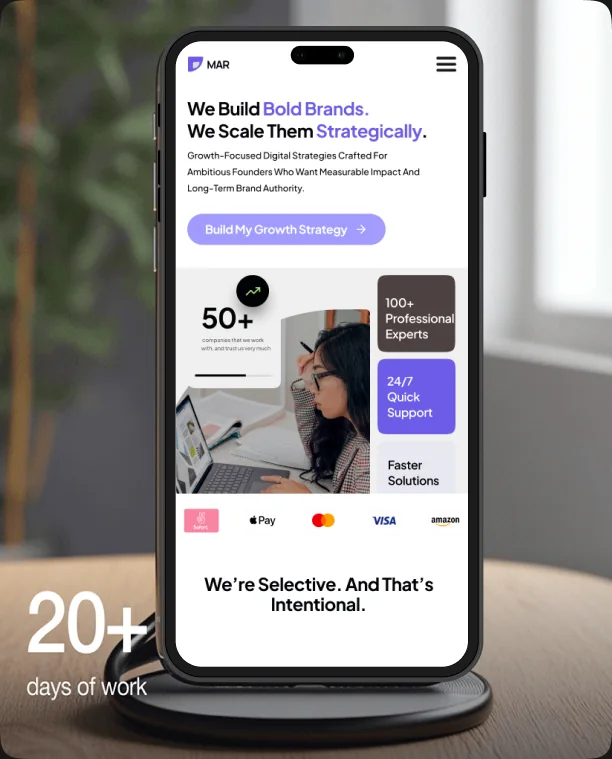
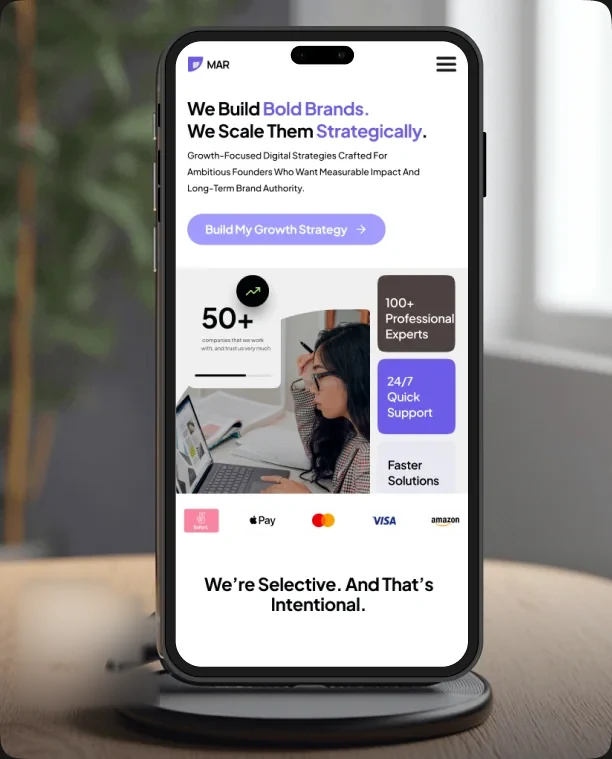
Add Microsoft Clarity analytics
Project 'Jagdish Bisht Portfolio' (ybke4p9ocn). Tag added to the <head>
of all five pages so heatmaps and session recordings cover the whole site,
not just the home page.

Changed region(s): [[0.031, 0.7576, 0.2794, 0.9394]]

diff --git a/devora.html b/devora.html
@@ -4,7 +4,18 @@
 <meta charset="UTF-8">
 <meta name="viewport" content="width=device-width, initial-scale=1.0">
 <title>Devora — Jagdish Bisht</title>
-<link rel="stylesheet" href="css/style.css?v=20260831i">
+<link rel="preconnect" href="https://fonts.googleapis.com">
+<link rel="preconnect" href="https://fonts.gstatic.com" crossorigin>
+<link rel="stylesheet" href="https://fonts.googleapis.com/css2?family=Aclonica&display=swap">
+<link rel="stylesheet" href="css/style.css?v=20260831k">
+<!-- Microsoft Clarity -->
+<script type="text/javascript">
+  (function(c,l,a,r,i,t,y){
+    c[a]=c[a]||function(){(c[a].q=c[a].q||[]).push(arguments)};
+    t=l.createElement(r);t.async=1;t.src="https://www.clarity.ms/tag/"+i;
+    y=l.getElementsByTagName(r)[0];y.parentNode.insertBefore(t,y);
+  })(window, document, "clarity", "script", "ybke4p9ocn");
+</script>
 </head>
 <body class="case-study">
 
@@ -96,7 +107,7 @@
         </div>
 
         <div class="case-block">
-          <h2>Why We Built This</h2>
+          <h2>Why this needed building</h2>
         </div>
 
         <div class="icon-card-grid">
@@ -108,7 +119,7 @@
           <div class="icon-card">
             <img src="assets/icons/devora/call-chat.svg" alt="" loading="lazy" decoding="async">
             <h3>The Manual Cycle</h3>
-            <p>Every business we spoke to described the same loop: ask the client's budget, get on a call, quote something "flexible" to avoid being wrong.</p>
+            <p>Every business I spoke to described the same loop: ask the client's budget, get on a call, quote something "flexible" to avoid being wrong.</p>
           </div>
           <div class="icon-card">
             <img src="assets/icons/devora/error-outline.svg" alt="" loading="lazy" decoding="async">
@@ -117,7 +128,7 @@
           </div>
           <div class="icon-card">
             <img src="assets/icons/devora/idea.svg" alt="" loading="lazy" decoding="async">
-            <h3>Our Opportunity</h3>
+            <h3>The opportunity</h3>
             <p>Conversational AI could ask the right questions fast - but only if paired with a pricing engine businesses could actually trust.</p>
           </div>
         </div>
@@ -142,7 +153,7 @@
         <div class="stat-card-grid">
           <div class="stat-card stat-card--pink">
             <span class="stat-card-num">68%</span>
-            <p>of visitors on our own pricing page left without any interaction, per session-recording review.</p>
+            <p>of visitors on the pricing page I reviewed left without any interaction, per session-recording review.</p>
           </div>
           <div class="stat-card stat-card--pink">
             <span class="stat-card-num">3/3</span>
@@ -202,11 +213,11 @@
 
         <div class="finding-grid">
           <div class="finding-card">
-            <div class="finding-head"><img src="assets/icons/devora/ear-sound.svg" alt="" loading="lazy" decoding="async"><h3>What we heard</h3></div>
+            <div class="finding-head"><img src="assets/icons/devora/ear-sound.svg" alt="" loading="lazy" decoding="async"><h3>What I heard</h3></div>
             <p>"I'd probably just put a fake number if I only wanted a ballpark," 3 of 8 participants said unprompted when shown this screen.</p>
           </div>
           <div class="finding-card">
-            <div class="finding-head"><img src="assets/icons/devora/test-tube.svg" alt="" loading="lazy" decoding="async"><h3>What we measured</h3></div>
+            <div class="finding-head"><img src="assets/icons/devora/test-tube.svg" alt="" loading="lazy" decoding="async"><h3>What I measured</h3></div>
             <p>5 of 8 said they'd hesitate or enter false details if only curious - the exact failure mode the gate was meant to prevent.</p>
           </div>
         </div>
@@ -223,11 +234,11 @@
 
         <div class="finding-grid finding-grid--dark">
           <div class="finding-card finding-card--dark">
-            <div class="finding-head"><img src="assets/icons/devora/ear-sound.svg" alt="" loading="lazy" decoding="async"><h3>What we heard</h3></div>
+            <div class="finding-head"><img src="assets/icons/devora/ear-sound.svg" alt="" loading="lazy" decoding="async"><h3>What I heard</h3></div>
             <p>"Oh, this already tells me if I'm in the right ballpark - I'd only bother going further if I was serious," one participant said.</p>
           </div>
           <div class="finding-card finding-card--dark">
-            <div class="finding-head"><img src="assets/icons/devora/test-tube.svg" alt="" loading="lazy" decoding="async"><h3>What we measured</h3></div>
+            <div class="finding-head"><img src="assets/icons/devora/test-tube.svg" alt="" loading="lazy" decoding="async"><h3>What I measured</h3></div>
             <p>7 of 8 said they'd give real contact details at the second gate, since they'd already gotten value for free and had a reason to continue.</p>
           </div>
         </div>
@@ -384,6 +395,8 @@
 
 <section class="cta cta--case">
   <div class="container">
+    <p class="mar-thanks"><span>Thanks</span> for Exploring</p>
+
     <footer class="site-footer">
       <h2 class="footer-ghost" aria-label="Let's Connect">
         <span>LET'S</span>

diff --git a/mar.html b/mar.html
@@ -7,7 +7,15 @@
 <link rel="preconnect" href="https://fonts.googleapis.com">
 <link rel="preconnect" href="https://fonts.gstatic.com" crossorigin>
 <link rel="stylesheet" href="https://fonts.googleapis.com/css2?family=Aclonica&display=swap">
-<link rel="stylesheet" href="css/style.css?v=20260831i">
+<link rel="stylesheet" href="css/style.css?v=20260831k">
+<!-- Microsoft Clarity -->
+<script type="text/javascript">
+  (function(c,l,a,r,i,t,y){
+    c[a]=c[a]||function(){(c[a].q=c[a].q||[]).push(arguments)};
+    t=l.createElement(r);t.async=1;t.src="https://www.clarity.ms/tag/"+i;
+    y=l.getElementsByTagName(r)[0];y.parentNode.insertBefore(t,y);
+  })(window, document, "clarity", "script", "ybke4p9ocn");
+</script>
 </head>
 <body class="case-study case-study--mar">
 
@@ -233,6 +241,45 @@
     <div class="mar-media mar-media--showcase">
       <img src="assets/images/mar/showcase.webp" alt="MAR website across mobile screens" width="1103" height="1800" loading="lazy" decoding="async">
     </div>
+  </section>
+
+  <!-- ============ 9 · IMPACT ============ -->
+  <section class="mar-sec container">
+    <p class="mar-eyebrow">Impact</p>
+
+    <h2 class="mar-h1">What the rebuild is built to change</h2>
+    <p class="mar-statement mar-statement--sm">The site is newly shipped, so rather than quote numbers it hasn't earned yet, here is what each decision was made to move - and where I'd look first to check whether it worked.</p>
+
+    <ul class="mar-impact">
+      <li>
+        <h3>A visitor who knows what MAR does</h3>
+        <p>The old hero led with adjectives. The new one leads with a claim and two routes into the site, so the first screen answers "what is this" before it asks for anything.</p>
+      </li>
+      <li>
+        <h3>Fewer decisions per screen</h3>
+        <p>Scattered CTAs were consolidated into one primary action per section. The measure would be clicks per session on the way to Contact.</p>
+      </li>
+      <li>
+        <h3>Services someone can actually repeat back</h3>
+        <p>The offering was regrouped into a structure that fits on one screen. The measure would be scroll depth through the services block.</p>
+      </li>
+      <li>
+        <h3>A brand that reads as premium</h3>
+        <p>One typeface, one accent, and a consistent card system replaced the mixed styling that undercut the agency's positioning.</p>
+      </li>
+    </ul>
+  </section>
+
+  <!-- ============ 10 · REFLECTION ============ -->
+  <section class="mar-sec container">
+    <p class="mar-eyebrow">Reflection</p>
+
+    <h2 class="mar-h1">What stuck with me</h2>
+    <p class="mar-statement mar-statement--sm">Thirteen working days is not long enough to explore, so the constraint forced a different way of working: decide the structure first, and let the visual design be the consequence rather than the search. Blocking out the hero, the selection story and the services grid on day two meant everything afterwards was a question with a small answer instead of a blank canvas.</p>
+
+    <blockquote class="case-quote case-quote--mar">
+      The tight timeline didn't make the work worse - it made me commit to a structure early and defend it, instead of redesigning the same page five ways.
+    </blockquote>
   </section>
 
 </main>

diff --git a/css/style.css b/css/style.css
@@ -2476,3 +2476,64 @@ button:focus-visible {
   .case-study--mindbloom .case-meta--4 { grid-template-columns: 1fr; }
   .footer-ghost span { font-size: 2.1rem; }
 }
+
+/* MAR — Impact list + Reflection (added so the page carries the same
+   Problem -> Impact -> Reflection arc as the other case studies) */
+.mar-statement--sm {
+  font-size: clamp(1.05rem, 0.95rem + 0.5vw, 1.25rem);
+  font-weight: 400;
+  line-height: 1.55;
+  color: var(--text-primary);
+  max-width: 68ch;
+}
+.mar-impact {
+  list-style: none;
+  margin-top: 32px;
+  display: grid;
+  grid-template-columns: repeat(auto-fit, minmax(240px, 1fr));
+  gap: 20px;
+}
+.mar-impact li {
+  background: var(--devora-card-bg);
+  border: 1px solid var(--card-border);
+  border-radius: 16px;
+  padding: 24px;
+}
+.mar-impact h3 {
+  font-size: 1.125rem;
+  font-weight: 500;
+  color: var(--mar-accent-light);
+  margin-bottom: 10px;
+}
+.mar-impact p { font-size: 1rem; line-height: 1.55; color: var(--text-secondary); }
+.case-quote--mar {
+  margin-top: 28px;
+  border-left-color: var(--mar-accent);
+  background: rgba(108, 92, 231, 0.12);
+  font-weight: 500;
+}
+
+/* Hero availability — a recruiter should learn you are looking without scrolling */
+.hero-available {
+  margin-top: 18px;
+  display: inline-flex;
+  align-items: center;
+  gap: 9px;
+  padding: 9px 18px;
+  border-radius: 999px;
+  background: rgba(75, 255, 3, 0.10);
+  border: 1px solid rgba(75, 255, 3, 0.28);
+  font-size: clamp(0.85rem, 0.78rem + 0.3vw, 1rem);
+  color: var(--text-primary);
+  white-space: nowrap;
+}
+.hero-available-dot {
+  width: 8px;
+  height: 8px;
+  border-radius: 50%;
+  background: var(--accent-green);
+  flex-shrink: 0;
+}
+@media (max-width: 560px) {
+  .hero-available { white-space: normal; text-align: center; }
+}

diff --git a/index.html b/index.html
@@ -4,7 +4,15 @@
 <meta charset="UTF-8">
 <meta name="viewport" content="width=device-width, initial-scale=1.0">
 <title>Jagdish Bisht — Product Designer</title>
-<link rel="stylesheet" href="css/style.css?v=20260831i">
+<link rel="stylesheet" href="css/style.css?v=20260831k">
+<!-- Microsoft Clarity -->
+<script type="text/javascript">
+  (function(c,l,a,r,i,t,y){
+    c[a]=c[a]||function(){(c[a].q=c[a].q||[]).push(arguments)};
+    t=l.createElement(r);t.async=1;t.src="https://www.clarity.ms/tag/"+i;
+    y=l.getElementsByTagName(r)[0];y.parentNode.insertBefore(t,y);
+  })(window, document, "clarity", "script", "ybke4p9ocn");
+</script>
 </head>
 <body>
 
@@ -41,6 +49,7 @@
       <span class="dim">I design products, sharpened by</span><span class="bright" id="typedWord"></span><span class="type-cursor" aria-hidden="true"></span>
     </h1>
     <p class="hero-sub">Designing mobile apps, AI products, and dashboards for global teams - from first user insight to shipped screen.</p>
+    <p class="hero-available"><span class="hero-available-dot" aria-hidden="true"></span>Open to Product &amp; UX/UI Designer roles</p>
 
     <div class="scroll-indicator">
       <span>Scroll</span>

diff --git a/mindbloom.html b/mindbloom.html
@@ -4,7 +4,18 @@
 <meta charset="UTF-8">
 <meta name="viewport" content="width=device-width, initial-scale=1.0">
 <title>Mind Bloom — Jagdish Bisht</title>
-<link rel="stylesheet" href="css/style.css?v=20260831i">
+<link rel="preconnect" href="https://fonts.googleapis.com">
+<link rel="preconnect" href="https://fonts.gstatic.com" crossorigin>
+<link rel="stylesheet" href="https://fonts.googleapis.com/css2?family=Aclonica&display=swap">
+<link rel="stylesheet" href="css/style.css?v=20260831k">
+<!-- Microsoft Clarity -->
+<script type="text/javascript">
+  (function(c,l,a,r,i,t,y){
+    c[a]=c[a]||function(){(c[a].q=c[a].q||[]).push(arguments)};
+    t=l.createElement(r);t.async=1;t.src="https://www.clarity.ms/tag/"+i;
+    y=l.getElementsByTagName(r)[0];y.parentNode.insertBefore(t,y);
+  })(window, document, "clarity", "script", "ybke4p9ocn");
+</script>
 </head>
 <body class="case-study case-study--mindbloom">
 
@@ -329,6 +340,8 @@
 
 <section class="cta cta--case">
   <div class="container">
+    <p class="mar-thanks"><span>Thanks</span> for Exploring</p>
+
     <footer class="site-footer">
       <h2 class="footer-ghost" aria-label="Let's Connect">
         <span>LET'S</span>

diff --git a/matchd.html b/matchd.html
@@ -4,7 +4,18 @@
 <meta charset="UTF-8">
 <meta name="viewport" content="width=device-width, initial-scale=1.0">
 <title>Match — Jagdish Bisht</title>
-<link rel="stylesheet" href="css/style.css?v=20260831i">
+<link rel="preconnect" href="https://fonts.googleapis.com">
+<link rel="preconnect" href="https://fonts.gstatic.com" crossorigin>
+<link rel="stylesheet" href="https://fonts.googleapis.com/css2?family=Aclonica&display=swap">
+<link rel="stylesheet" href="css/style.css?v=20260831k">
+<!-- Microsoft Clarity -->
+<script type="text/javascript">
+  (function(c,l,a,r,i,t,y){
+    c[a]=c[a]||function(){(c[a].q=c[a].q||[]).push(arguments)};
+    t=l.createElement(r);t.async=1;t.src="https://www.clarity.ms/tag/"+i;
+    y=l.getElementsByTagName(r)[0];y.parentNode.insertBefore(t,y);
+  })(window, document, "clarity", "script", "ybke4p9ocn");
+</script>
 </head>
 <body class="case-study case-study--match">
 
@@ -359,6 +370,8 @@
 
 <section class="cta cta--case">
   <div class="container">
+    <p class="mar-thanks"><span>Thanks</span> for Exploring</p>
+
     <footer class="site-footer">
       <h2 class="footer-ghost" aria-label="Let's Connect">
         <span>LET'S</span>
